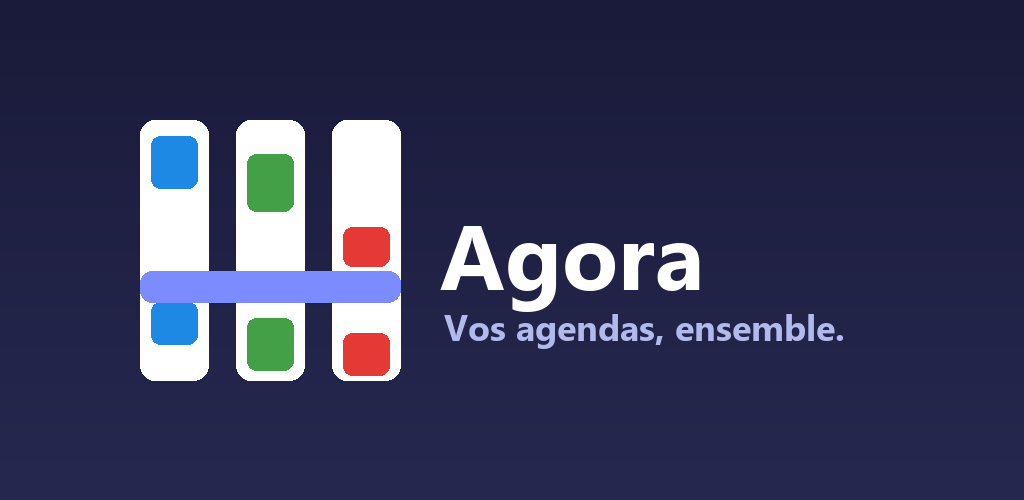
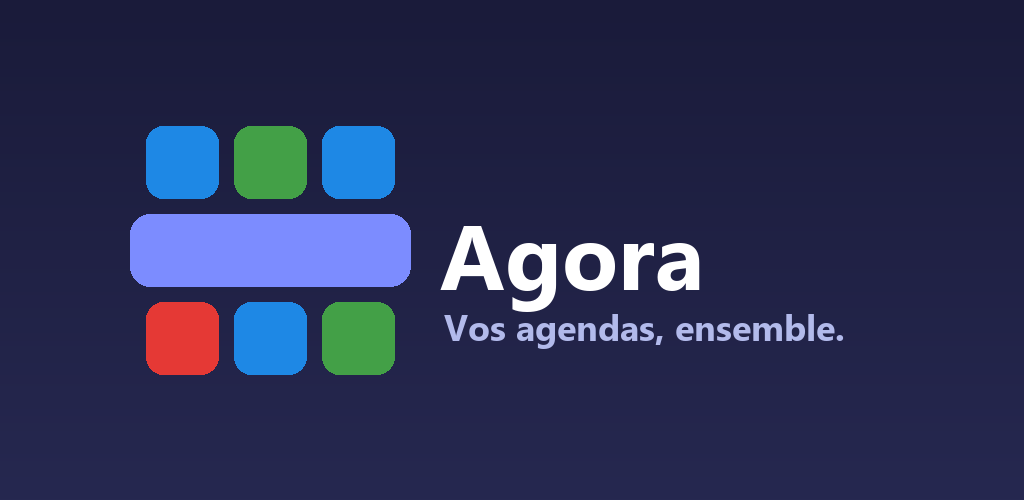
feat(store): l'icône devient l'arrêt sur image de l'intro
La première icône avait été dessinée d'après une animation écartée depuis —
trois colonnes d'agenda qui se rejoignent. L'animation retenue montre une
grille qui s'efface et un créneau qui s'ouvre : l'icône montrait donc autre
chose que ce que l'application raconte au lancement, alors que DewDrop et
DeckHand font apparaître leur logo dans leur intro.

La grille vient de l'animation, la bande est conservée de la version
précédente : elle porte le sens — ce créneau-là, personne ne l'a pris — elle
reste lisible à 48 px, et elle évite que l'icône change du tout au tout pour
qui a déjà installé la version de test.

versionCode passé à 2 : Play refuse deux bundles portant le même.

Changed region(s): [[0.125, 0.24, 0.4062, 0.78]]

diff --git a/tools/store/make_store_assets.py b/tools/store/make_store_assets.py
@@ -7,11 +7,18 @@ passe mal sur fond sombre, une marge de sécurité qu'Android rogne davantage
 qu'on croyait. Le script les régénère toutes d'un coup et garde les cinq
 tailles cohérentes entre elles ; cinq PNG figés divergent au premier retour.
 
-**Le dessin est celui de l'intro, réduit.** Trois colonnes — un membre
-chacune, aux couleurs de `app/lib/src/common_widgets/palette.dart` — et la
-bande indigo du créneau commun qui les traverse. C'est le même geste que
-`tools/mockups/agora_intro.html` arrêté sur sa cinquième battue : qui voit
-l'icône a déjà vu l'app.
+**Le dessin est l'arrêt sur image de l'intro.** Une grille de créneaux — les
+couleurs de membres de `app/lib/src/common_widgets/palette.dart` — traversée
+par la bande du créneau commun, là où personne n'est pris. C'est ce que
+`tools/mockups/agora_intro.html` construit en deux secondes : qui voit l'icône
+a déjà vu l'app.
+
+**L'ordre compte, et il a été corrigé.** La première icône avait été dessinée
+d'après une animation écartée depuis : trois colonnes d'agenda qui se
+rejoignent. L'animation retenue montre une grille, donc l'icône montre une
+grille. La bande, elle, a été conservée de la version précédente — elle porte
+le sens (le créneau que personne n'occupe), elle reste lisible à 48 px, et
+elle évite que l'icône change du tout au tout pour qui l'a déjà installée.
 
 **Les proportions ne sont pas libres.** Android rogne l'icône adaptative en
 cercle, en carré arrondi ou en goutte selon le lanceur : seuls les 66 % du
@@ -57,18 +64,13 @@ NUIT_BAS = (38, 40, 80)
 #: contre du blanc.
 BANDE = (124, 140, 255)
 
-#: Le fût d'un agenda, posé sur le fond nuit.
-FUT = BLANC
-
-#: Les mêmes créneaux que l'intro, en fraction de la hauteur de colonne, et la
-#: même bande libre. Les changer ici sans les changer là-bas ferait diverger
-#: l'icône de l'animation qu'elle résume.
-BLOCS = [
-    [(0.06, 0.26), (0.70, 0.86)],
-    [(0.13, 0.35), (0.76, 0.96)],
-    [(0.41, 0.56), (0.82, 0.98)],
+#: Qui occupe quelle case, sur les deux rangs qui encadrent la bande. Le rang
+#: du milieu n'est pas dessiné : c'est la bande qui le remplace, et c'est tout
+#: le propos — ce créneau-là, personne ne l'a pris.
+RANGS = [
+    [0, 1, 0],
+    [2, 0, 1],
 ]
-LIBRE = (0.58, 0.70)
 
 #: Part du côté occupée par le dessin sur l'icône adaptative. Android ne
 #: garantit que les 66 % centraux ; en deçà de cette marge, un lanceur rond
@@ -83,43 +85,35 @@ MIPMAPS = {"mdpi": 48, "hdpi": 72, "xhdpi": 96, "xxhdpi": 144, "xxxhdpi": 192}
 
 
 def dessiner_marque(img: Image.Image, cote: float, cx: float, cy: float) -> None:
-    """Pose la marque — trois colonnes et la bande — centrée sur (cx, cy).
+    """Pose la marque — deux rangs de créneaux et la bande — centrée sur
+    (cx, cy).
 
-    [cote] est le côté du carré qui la contient ; tout le reste en découle,
-    de sorte que le dessin soit identique à toutes les tailles.
+    [cote] est le côté du carré qui la contient ; tout le reste en découle, de
+    sorte que le dessin soit identique à toutes les tailles. La bande déborde
+    volontairement des blocs : elle traverse la semaine au lieu de s'y ranger.
     """
     d = ImageDraw.Draw(img)
 
-    col_l = cote * 0.26
-    ecart = cote * 0.37
-    col_h = cote
-    haut = cy - col_h / 2
+    bloc = cote / 3.6
+    ecart = bloc * 0.22
+    total = bloc * 3 + ecart * 2
+    rayon = bloc * 0.24
+    x0 = cx - total / 2
+    y0 = cy - total / 2
 
-    for i, (couleur, blocs) in enumerate(zip(MEMBRES, BLOCS)):
-        x = cx + (i - 1) * ecart - col_l / 2
-        rayon = col_l * 0.22
-        d.rounded_rectangle(
-            [x, haut, x + col_l, haut + col_h], radius=rayon, fill=FUT
-        )
-        marge = col_l * 0.16
-        for a, b in blocs:
+    for indice, rang in enumerate(RANGS):
+        # Le deuxième rang saute la ligne du milieu, occupée par la bande.
+        y = y0 + (0 if indice == 0 else 2) * (bloc + ecart)
+        for colonne, qui in enumerate(rang):
+            x = x0 + colonne * (bloc + ecart)
             d.rounded_rectangle(
-                [x + marge, haut + a * col_h, x + col_l - marge, haut + b * col_h],
-                radius=col_l * 0.14,
-                fill=couleur,
+                [x, y, x + bloc, y + bloc], radius=rayon, fill=MEMBRES[qui]
             )
 
-    # La bande du créneau commun traverse les trois colonnes : dans l'app comme
-    # ici, elle n'appartient à personne.
-    large = ecart * 2 + col_l
+    haut = y0 + bloc + ecart
     d.rounded_rectangle(
-        [
-            cx - large / 2,
-            haut + LIBRE[0] * col_h,
-            cx + large / 2,
-            haut + LIBRE[1] * col_h,
-        ],
-        radius=col_l * 0.18,
+        [x0 - ecart, haut, x0 + total + ecart, haut + bloc],
+        radius=bloc * 0.28,
         fill=BANDE,
     )
 

diff --git a/app/store/declarations-play.md b/app/store/declarations-play.md
@@ -89,8 +89,9 @@ agendas n'y survit pas.
 qui s'appliqueraient dès la tranche 16-17.
 
 Ce qui rend les trois « non » défendables : utilitaire d'organisation, sans
-personnage, sans univers ludique, sans gamification. Icône en grille d'agenda
-sur fond nuit, captures montrant des semaines de travail et des créneaux,
+personnage, sans univers ludique, sans gamification. Icône : une grille de créneaux
+traversée par la bande du créneau commun, sur fond nuit. Captures montrant
+des semaines de travail et des créneaux,
 description parlant de colocation, d'équipe et de club. L'intro emploie des
 couleurs vives, mais ce sont des blocs d'agenda abstraits.
 
